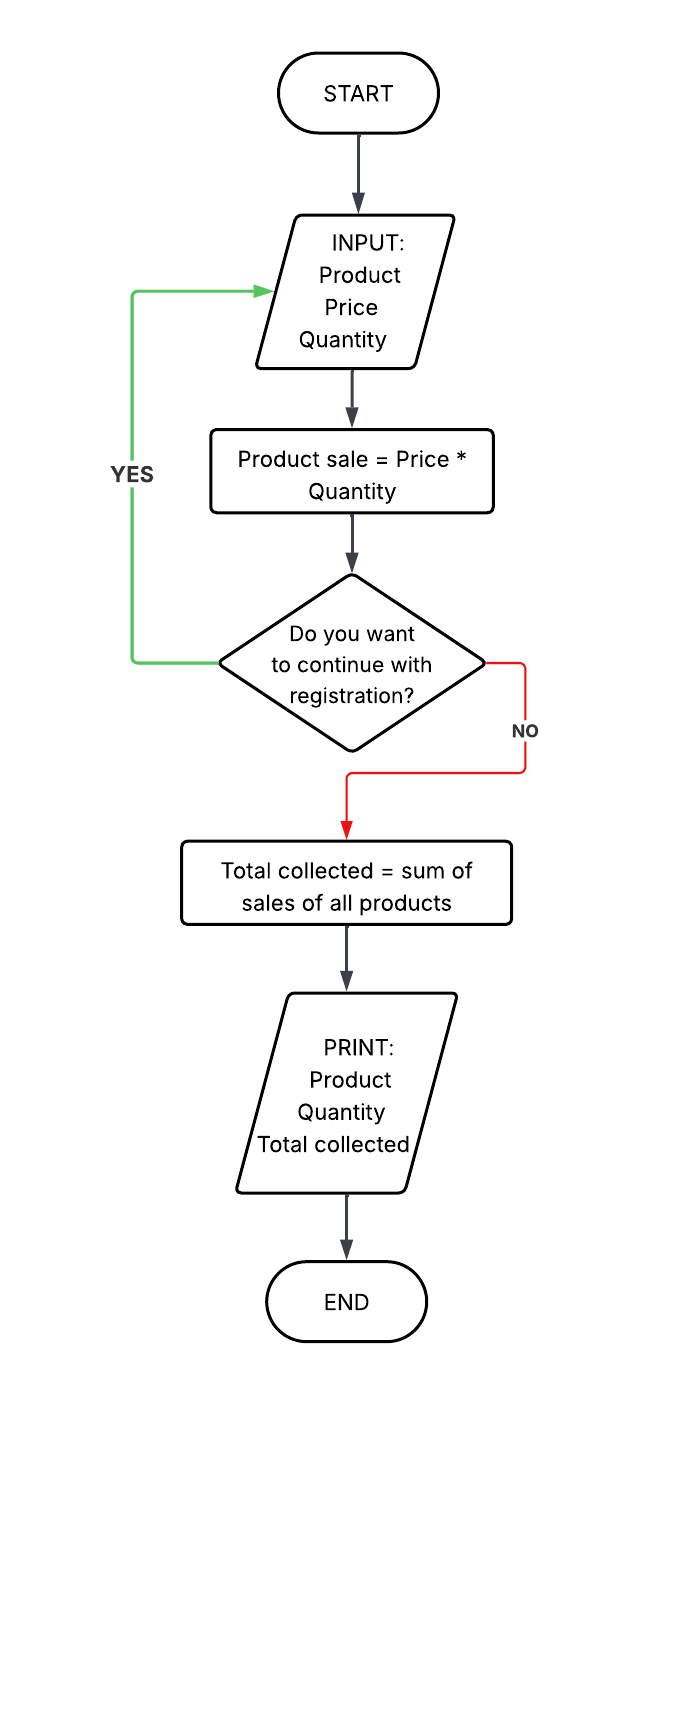
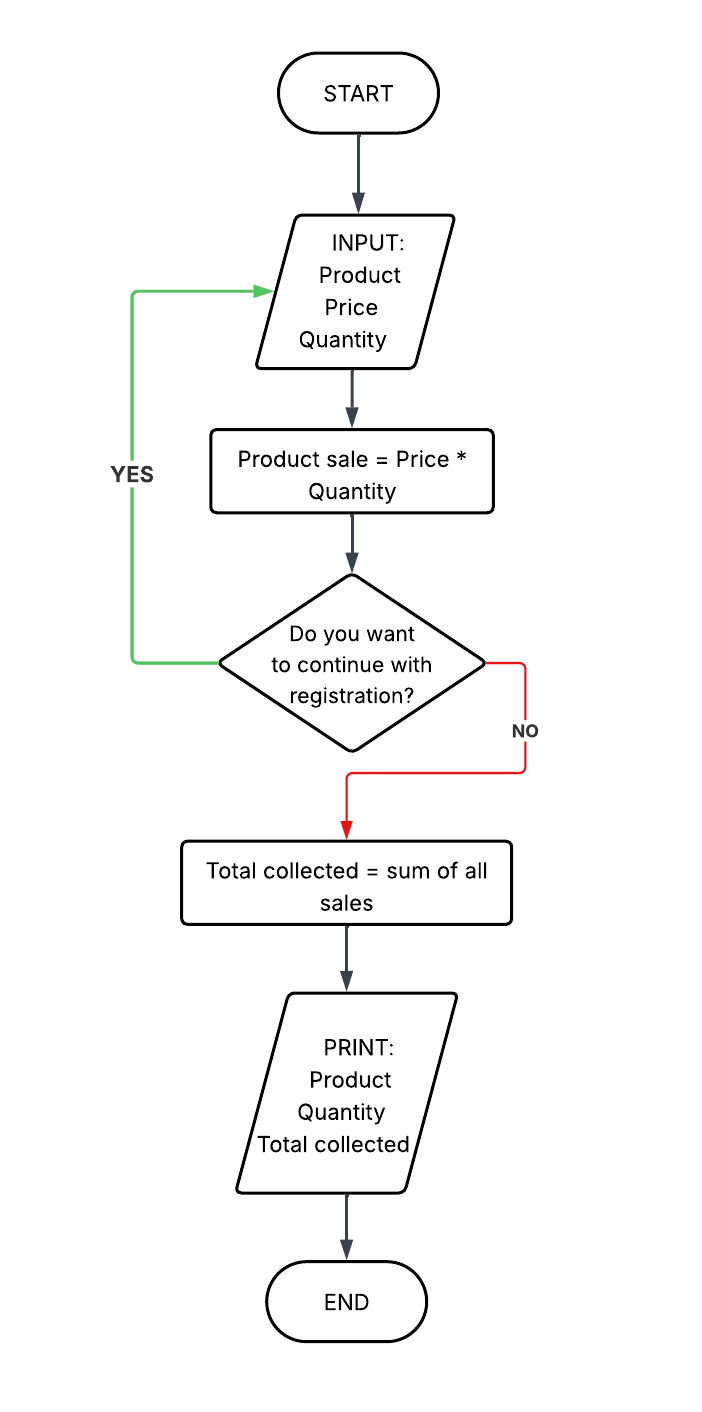
Adjust 1

diff --git a/product_registration.py b/product_registration.py
@@ -19,7 +19,6 @@ def sales_continue (sales):
     continue_record = input("Continue with registration (YES/NO): ")
 
     while continue_record in ["y", "Y", "yes", "YES"]:
-    # I had: while continue_record.lower() == "yes":
             
         sales_registration(sales)
         continue_record = input("Continue with registration (YES/NO): ")

diff --git a/generate_message.py b/generate_message.py
@@ -9,6 +9,8 @@ def show_sales(sales):
 
         i += 1
         print(f"\nProduct # {i}: {sale['product']}")
+        print(f"Unit price: $ {sale['price']}")
         print(f"Total quantity sold: {sale['quantity']}")
 
     print(f"\nTotal collected: $ {total_sales}")
+    print("\nTHANK YOU FOR USING THIS PROGRAM\n")

diff --git a/main.py b/main.py
@@ -3,6 +3,7 @@ from product_registration import sales_registration
 from product_registration import sales_continue
 from generate_message import show_sales
 
+print("\nWELCOME TO SALES REGISTRATION PROGRAM")
 sales = []
 sales_registration(sales)
 sales_continue(sales)
